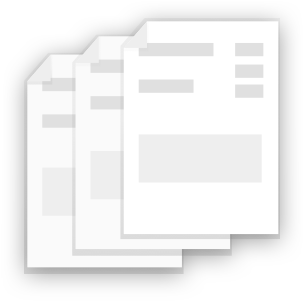
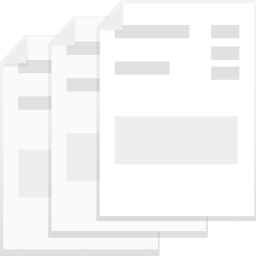
Import section by dragging dklf file into editor tab

diff --git a/src/main/java/app/control_panel/layout_editor_tab/LayoutEditorTab.kt b/src/main/java/app/control_panel/layout_editor_tab/LayoutEditorTab.kt
@@ -98,17 +98,7 @@ class LayoutEditorTab(val controlPanelStage: ControlPanelStage, val sectionManag
 
             val sourceFile = fileChooser.showOpenDialog(null)
             if (sourceFile != null) {
-                // Check if the section already exists and would be overwritten with the import
-                if (sectionImporter.checkIfSectionAlreadyExists(sourceFile)) {
-                    AlertFactory.instance.confirmation("Layout already exist",  // TODO: i18n
-                            "The layout you're trying to import already exist and will be overwritten. " +
-                                    "Do you want to proceed anyway?",
-                            onYes = {
-                                importSection(sourceFile)
-                            }).show()
-                }else{
-                    importSection(sourceFile)
-                }
+                requestImportSection(sourceFile)
             }
         }
 
@@ -148,6 +138,11 @@ class LayoutEditorTab(val controlPanelStage: ControlPanelStage, val sectionManag
                     dropDialog?.showWithAnimation()
                     dropDialog?.onDialogClosed = {
                         dropDialog = null
+                    }
+                    dropDialog?.onContentDropped = {dragboard ->
+                        if (dragboard.hasFiles() && dragboard.files[0].isFile) {
+                            requestImportSection(dragboard.files[0])
+                        }
                     }
                 }
             }
@@ -251,7 +246,21 @@ class LayoutEditorTab(val controlPanelStage: ControlPanelStage, val sectionManag
                 }).show()
     }
 
-    fun importSection(sourceFile: File) {
+    private fun requestImportSection(sourceFile: File) {
+        // Check if the section already exists and would be overwritten with the import
+        if (sectionImporter.checkIfSectionAlreadyExists(sourceFile)) {
+            AlertFactory.instance.confirmation("Layout already exist",  // TODO: i18n
+                    "The layout you're trying to import already exist and will be overwritten. " +
+                            "Do you want to proceed anyway?",
+                    onYes = {
+                        importSection(sourceFile)
+                    }).show()
+        }else{
+            importSection(sourceFile)
+        }
+    }
+
+    private fun importSection(sourceFile: File) {
         try {
             val sectionResult = sectionImporter.import(sourceFile)
             if (sectionResult.section != null) {

diff --git a/src/main/java/app/control_panel/DropDialog.kt b/src/main/java/app/control_panel/DropDialog.kt
@@ -6,6 +6,8 @@ import javafx.geometry.Pos
 import javafx.scene.control.Label
 import javafx.scene.image.ImageView
 import javafx.scene.input.DragEvent
+import javafx.scene.input.Dragboard
+import javafx.scene.input.TransferMode
 import javafx.scene.layout.VBox
 import system.drag_and_drop.DNDCommandProcessor
 import system.image.ImageResolver
@@ -18,6 +20,8 @@ class DropDialog(parent: BlurrableStage, imageResolver: ImageResolver)
         false
     }
 
+    var onContentDropped : ((Dragboard) -> Unit)? = null
+
     private val contentBox = VBox()
     private val imageView = ImageView()
     private val label = Label()
@@ -28,9 +32,9 @@ class DropDialog(parent: BlurrableStage, imageResolver: ImageResolver)
         contentBox.styleClass.add("drop-dialog-contentbox")
         contentBox.alignment = Pos.CENTER
 
-        imageView.image = imageResolver.resolveImage("asset:dropfiles", 152)
-        imageView.fitWidth = 152.0
-        imageView.fitHeight = 152.0
+        imageView.image = imageResolver.resolveImage("asset:dropfiles", 128)
+        imageView.fitWidth = 128.0
+        imageView.fitHeight = 128.0
         
         label.text = "Drop here"  // TODO: i18n
 
@@ -40,6 +44,20 @@ class DropDialog(parent: BlurrableStage, imageResolver: ImageResolver)
 
         contentBox.setOnDragExited {
             onClose()
+        }
+        contentBox.setOnDragOver {
+            if (verifyPayload?.invoke(it) == true) {
+                it.acceptTransferModes(TransferMode.COPY, TransferMode.MOVE, TransferMode.LINK)
+            }
+
+            it.consume()
+        }
+        contentBox.setOnDragDropped {
+            if (verifyPayload?.invoke(it) == true) {
+                onContentDropped?.invoke(it.dragboard)
+            }
+
+            it.consume()
         }
     }
 

diff --git a/src/main/resources/css/dialog/drop_dialog.css b/src/main/resources/css/dialog/drop_dialog.css
@@ -4,10 +4,11 @@
     -fx-border-insets: 30px;
     -fx-border-width: 3px;
     -fx-padding: 20px;
+    -fx-spacing: 20px;
 }
 
 .drop-dialog-contentbox > .label {
     -fx-font-size: 20px;
-    -fx-text-fill: #636363;
+    -fx-text-fill: #a3a1a4;
     -fx-font-family: "Nunito Sans Regular";
 }
